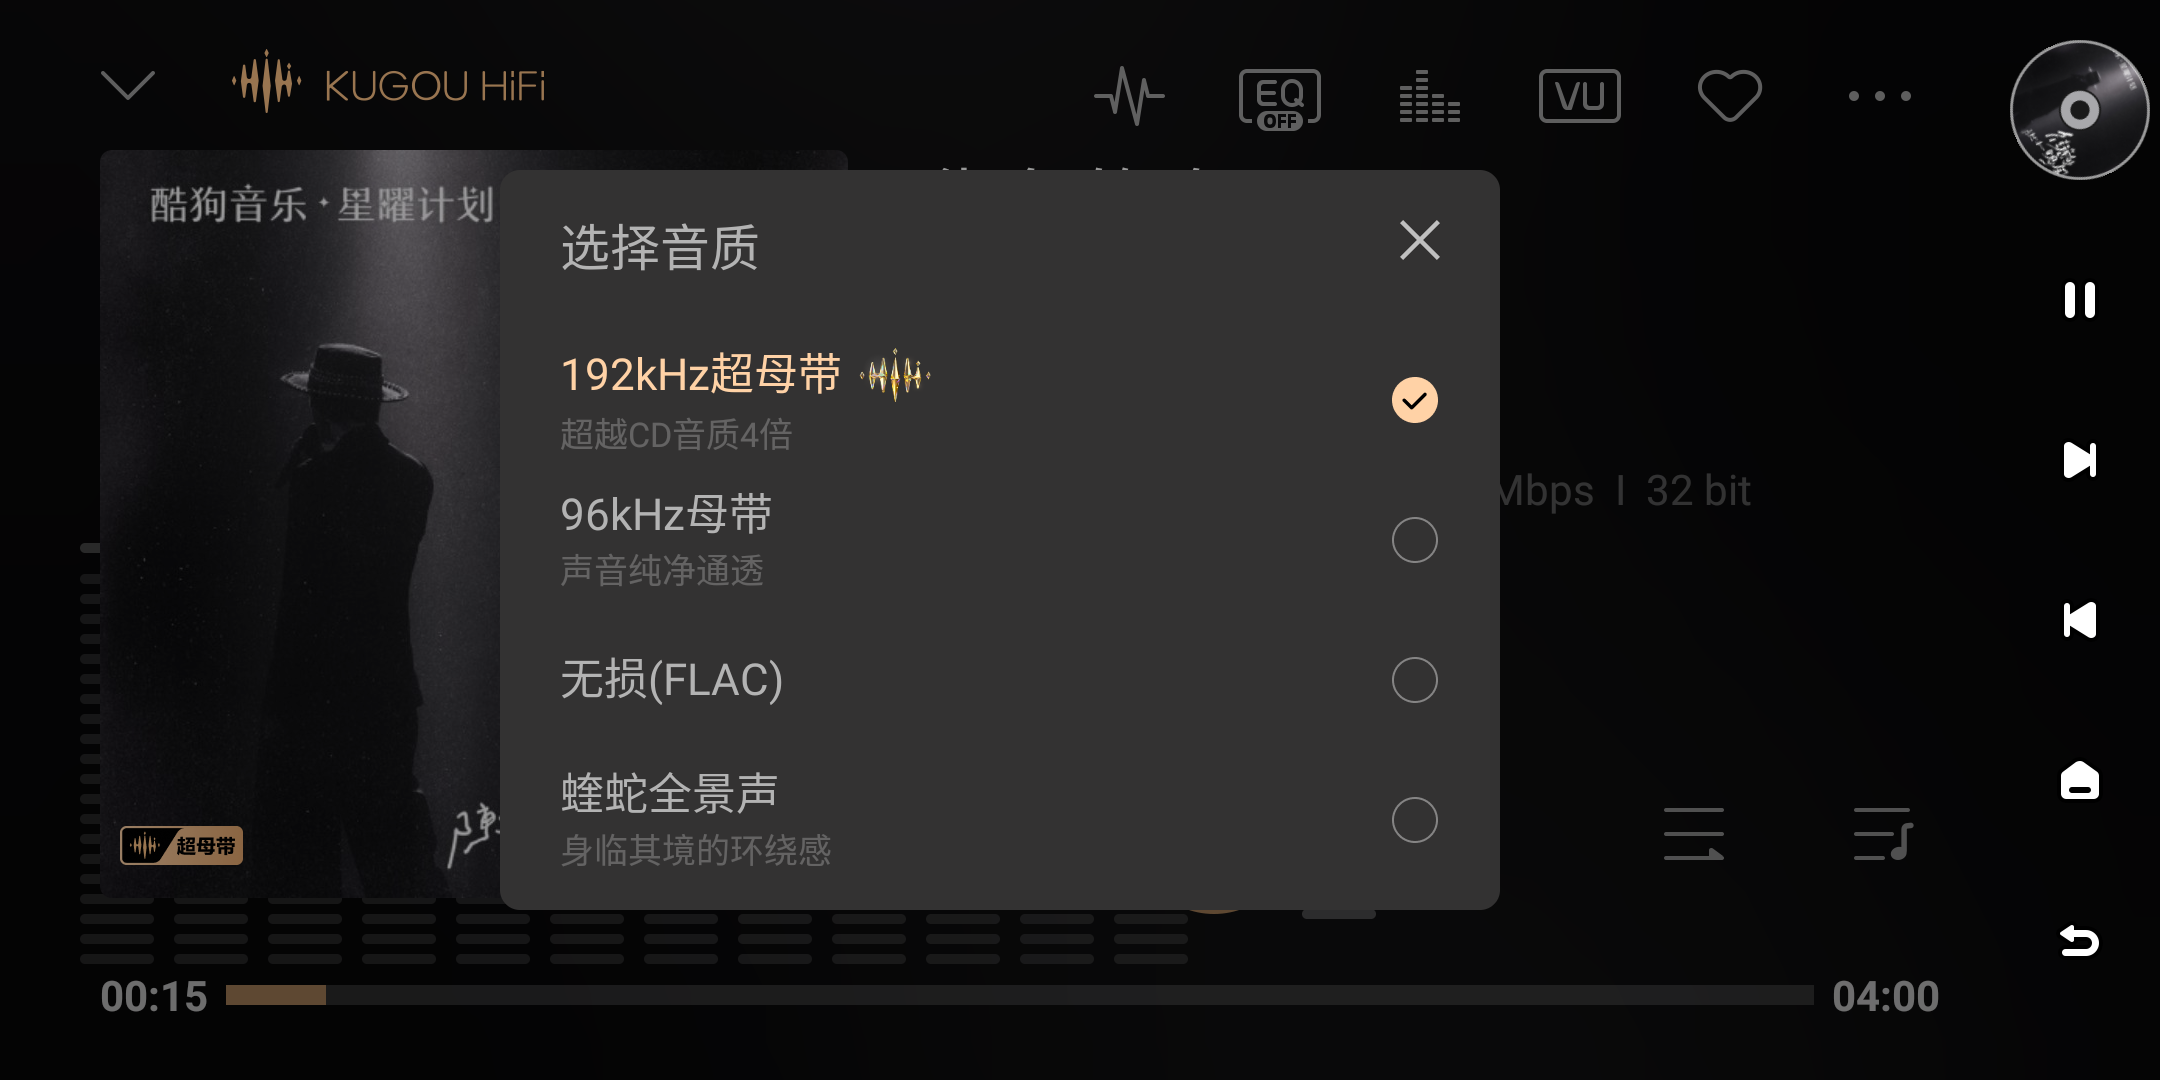
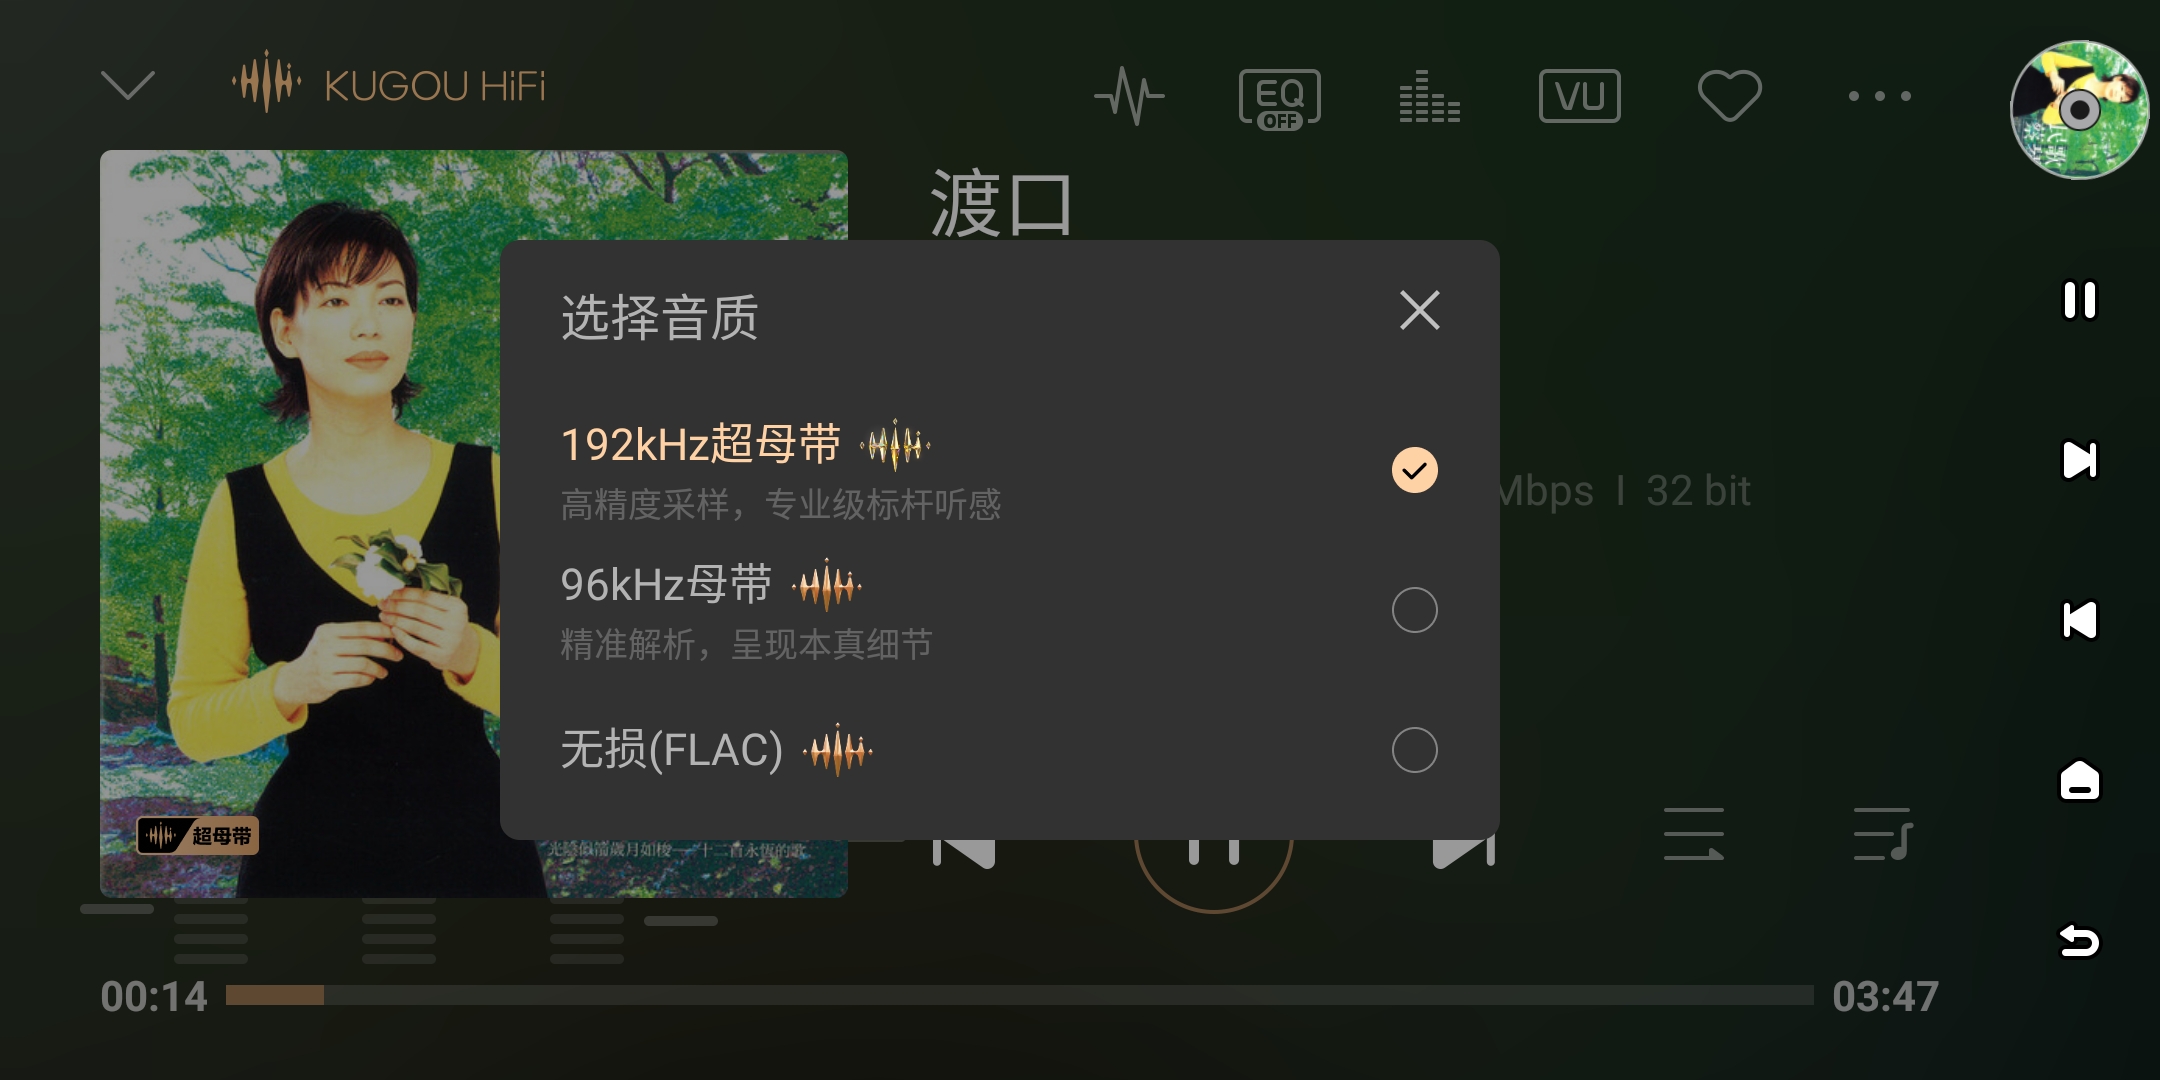
小修改

diff --git a/docs/zh/kugou.md b/docs/zh/kugou.md
@@ -81,8 +81,6 @@
 + 96kHz母带
 + Hi-Res
 + 无损（FLAC）
-+ 杜比
-+ 蝰蛇全景声
 
 
 <div class="two-images">
